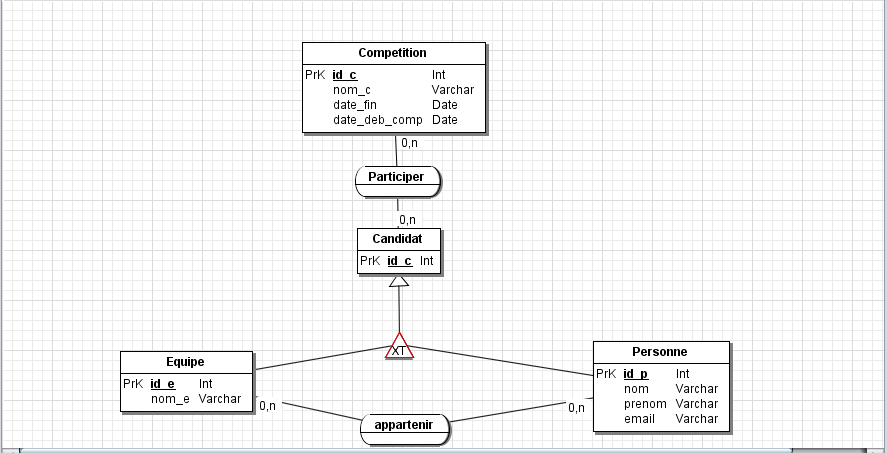
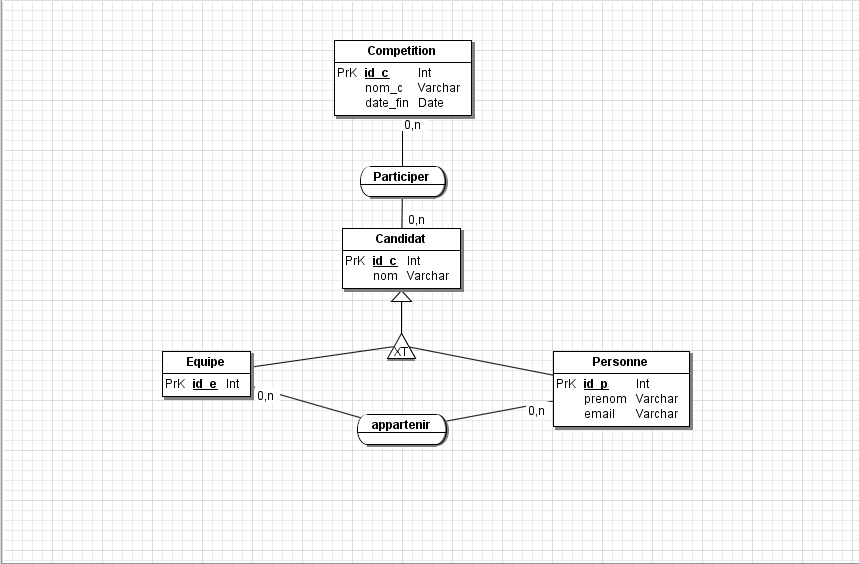
deplace le fichier testUnit et modif mcd

diff --git a/InscriptionsSportives/src/testUnitaire/testUnitaire.java b/InscriptionsSportives/src/testUnitaire/testUnitaire.java
@@ -4,12 +4,91 @@ import static org.junit.Assert.*;
 
 import org.junit.Test;
 import inscriptions.Competition;
+import inscriptions.Equipe;
+import inscriptions.Inscriptions;
+import inscriptions.Personne;
 
 public class testUnitaire {
 
+	public class TestsJUnit
+	{
+		Inscriptions ins ; 
+		Personne test ;
+		Equipe testEq ; 
+		Competition comp ; 
+	 
 	@Test
-	public void test() {
-		fail("Not yet implemented");
+	 public void testDeleteEquipe()
+	 {
+		 Equipe test1 = ins.createEquipe("testEq");
+		 Personne test2 = ins.createPersonne("test","test","test");
+		 test1.add(test2) ; 
+		 assertEquals("testEq",testEq);
+	 }
+	 
+	@Test
+	 public void testDeletePersonne()
+	 {
+		 Equipe test1 = ins.createEquipe("testEq");
+		 Personne test2 = ins.createPersonne("test","test","test");
+		 test1.add(test2) ; 
+		 assertEquals("testEq",testEq);
+	 }
+	
+	 @Test
+	 public void testCompetitions()
+	 {
+	  assertEquals("", 2, test.getCompetitions());
+	 }
+	 
+	 @Test
+	 public void testMail()
+	 {
+	  assertEquals("", 2, test.getMail());
+	 }
+	 
+	 @Test
+	 public void testNom()
+	 {
+	  assertEquals("", 2, test.getNom());
+	 }
+	 
+	 @Test
+	 public void testPrenom()
+	 {
+	  assertEquals("", 2, test.getPrenom());
+	 }
+	 
+	 @Test
+	 public void testsetMail()
+	 {
+	  assertEquals("", 2, test.setMail(mail));
+	 }
+
+	 @Test
+	 public void testsetNom()
+	 {
+	  assertEquals("", 2, test.setNom(nom));
+	 }
+	 
+	 @Test
+	 public void testsetPrenom()
+	 {
+	  assertEquals("", 2, test.setPrenom(prenom));
+	 }
+	 
+	 @Test
+	 public void testtoString()
+	 {
+	  assertEquals("", 2, test.toString());
+	 }
+	 
+	 @Test
+	 public void testCompare()
+	 {
+	  assertEquals("", 2, test.setNom(nom););
+	 }
 	}
+
 
 }

diff --git a/InscriptionsSportives/src/inscriptions/Competition.java b/InscriptionsSportives/src/inscriptions/Competition.java
@@ -94,7 +94,7 @@ public class Competition implements Comparable<Competition>, Serializable
 	
 	public void setDateCloture(LocalDate dateCloture)
 	{
-		if(dateCloture.isBefore(this.dateCloture) ) {
+		if(dateCloture.isAfter(this.dateCloture) ) {
 		// TODO vérifier que l'on avance pas la date.
 		this.dateCloture = dateCloture;
 		}
